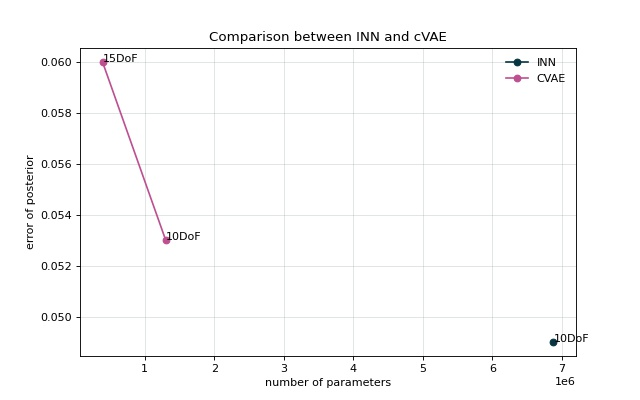
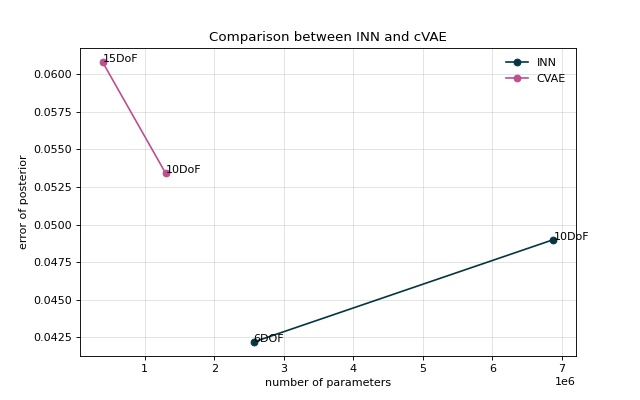
results added

diff --git a/src/visualization.py b/src/visualization.py
@@ -35,11 +35,12 @@ if __name__ == '__main__':
 
     # INN: # of parameters
     # dummy values for now
-    params_INN = [6876180]
+    params_INN = [2566284, 6876180]
 
     # INN: e_posterior
     # dummy values for now
-    e_posterior_INN = [0.049]
+    e_posterior_INN = [0.0422, 0.0490]
+    e_resim_INN = [0.0097, 0.0083]
 
     # CVAE: # of parameters
     # dummy values for now
@@ -47,11 +48,12 @@ if __name__ == '__main__':
 
     # CVAE: e_posterior
     # dummy values for now
-    e_posterior_CVAE = [0.053, 0.060]
+    e_posterior_CVAE = [0.0534, 0.0608]
+    e_resim_CVAE = [0.0012, 0.0050]
 
     # annotations
     annotations_cVAE = ['10DoF', '15DoF']
-    annotations_INN = ['10DoF']
+    annotations_INN = ['6DOF', '10DoF']
 
     ####################################################################################################################
 
@@ -93,3 +95,21 @@ if __name__ == '__main__':
     plt.legend(frameon=False)
     plt.title('Comparison between INN and cVAE')
     plt.savefig('figures/evaluation/comparison_e_posterior_alternative.jpg')
+
+    # e_resim
+    plt.figure(figsize=(8, 5), dpi=80)
+    plt.plot(params_INN, e_resim_INN, color="#073642", label="INN", marker='o')
+    plt.plot(params_CVAE, e_resim_CVAE, color="#bc5090", label="CVAE", marker='o')
+
+    for i, txt in enumerate(annotations_cVAE):
+        plt.annotate(txt, (params_CVAE[i], e_resim_CVAE[i]))
+
+    for i, txt in enumerate(annotations_INN):
+        plt.annotate(txt, (params_INN[i], e_resim_INN[i]))
+
+    plt.grid(True, color="#93a1a1", alpha=0.3)
+    plt.xlabel('number of parameters')
+    plt.ylabel('re-simulation error')
+    plt.legend(frameon=False)
+    plt.title('Comparison between INN and cVAE')
+    plt.savefig('figures/evaluation/comparison_e_resim_alternative.jpg')

diff --git a/src/test.py b/src/test.py
@@ -243,3 +243,4 @@ if __name__ == '__main__':
         for item in list_results:
             json.dump(item, fout)
             fout.write('\n')
+    print("Results written to file")
